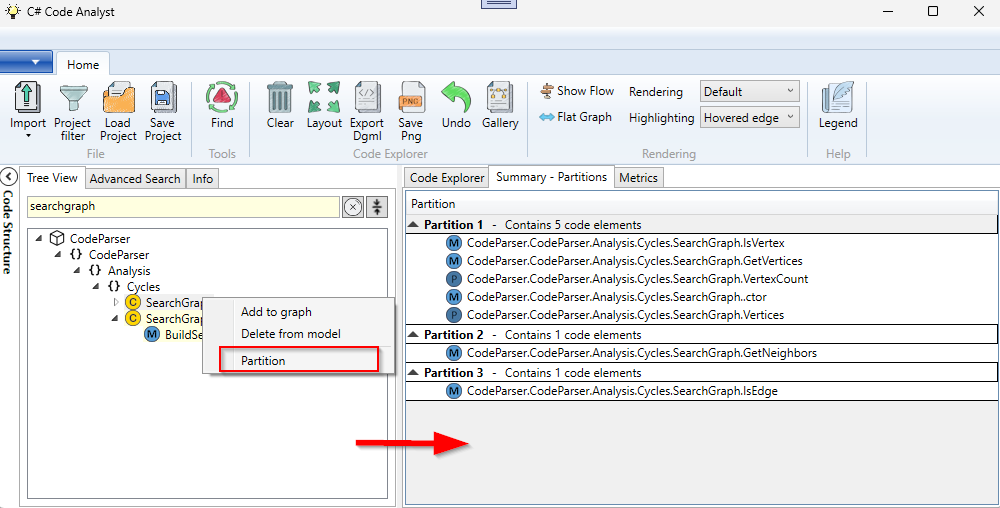
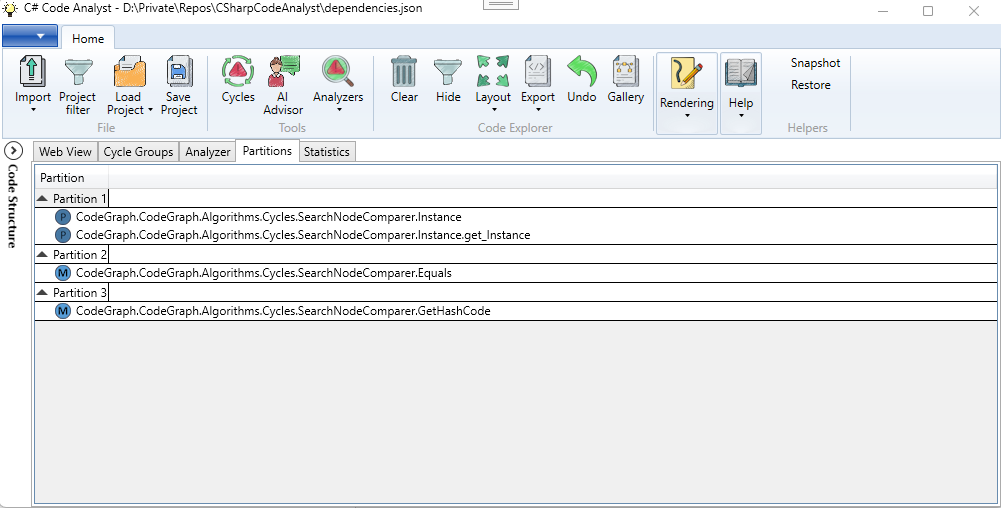
Updated documentation

Changed region(s): [[0.0, 0.0, 1.0, 1.0], [0.341, 0.8563, 0.465, 0.9154]]

diff --git a/CSharpCodeAnalyst/Resources/Strings.Designer.cs b/CSharpCodeAnalyst/Resources/Strings.Designer.cs
@@ -3090,7 +3090,7 @@ namespace CSharpCodeAnalyst.Resources {
         }
         
         /// <summary>
-        ///   Looks up a localized string similar to Web View.
+        ///   Looks up a localized string similar to Code Explorer.
         /// </summary>
         public static string WebView_TabHeader {
             get {

diff --git a/Documentation/Metrics.md b/Documentation/Metrics.md
@@ -29,24 +29,11 @@ Available via *Analyzers → Type Dependencies*. The result is a sortable table 
 | Score        | Transitive importance (PageRank), normalized so the average is 1.0. How much the rest of the codebase rests on this type.<br />transitive, weighted by importance |
 | Fan-out      | How many other types this type depends on.<br />direct (depth 1) |
 
-`Containment`, `Bundled`, `Handles` are special relationships which are not considered in this analysis. Relevant relationship types are `Calls`, `Creates`, `Uses`, `Inherits`, `Implements`, `Overrides`, `UsesAttribute`, `Invokes`.
-
 Types defined outside the analyzed solution (e.g., frameworks and NuGet packages) are excluded. Otherwise, ubiquitous types like `object` or `string` would dominate the Fan-in ranking.
 
-### The type-level graph
+One note how the dependencies are counted: If 10 methods in class `A` call 5 methods in class `B` and class `A` accesses one field in class `B` we count one type dependency`A → B.` **Dependency is a yes/no fact in this context.** For the question "must I understand B in order to understand A?", the answer does not change whether A touches B in five places or fifty. A depends on B, full stop.
 
-The parsed code graph contains fine-grained relationships: a *method* calls another *method*, a *field* has a *type*, and so on. These metrics are not computed on those raw relationships. Every relationship is first **lifted to the type that contains its endpoints**:
-
-- A call `A.DoWork()` → `B.Helper()` becomes a type edge `A → B`. 
-- Relationships above the type level (namespace, assembly) have no containing type and are ignored.
-
-This is deliberate. For understanding architecture, "does class A depend on class B?" is the useful question — not "which of A's methods calls which of B's methods".
-
-After lifting, the type edges are **deduplicated**. If class `A` calls ten different methods on class `B`, that is a single `A → B` edge.
-
-This is intentional. **Dependency is a yes/no fact in this context.** For the question "must I understand B in order to understand A?", the answer does not change whether A touches B in five places or fifty. A depends on B, full stop.
-
-Note: The one quantity that genuinely exists is the number of distinct **call sites** between two types — a measure of how *entangled* they are, relevant for estimating decoupling effort. But that is a different question from centrality, so it is not used here.
+Relevant relationship types are `Calls`, `Creates`, `Uses`, `Inherits`, `Implements`, `Overrides`, `UsesAttribute`, `Invokes`. You may have seen a `Handles` relationship in the code graph. This is ignored. It is a special relationship introduced to show which method handles an event. In terms of dependencies, this is the wrong direction. The dependency is recognized when the event is registered, however.
 
 ### Fan-in and Fan-out
 
@@ -154,7 +141,7 @@ Only **classes** are analyzed (not structs, records or interfaces). Pure data ho
 
 Methods of a class may be linked together through base-class members. 
 
-Therefore base-class members are pulled in as **connectors**: they link the class's own members that interact through inherited state or behavior, but are then **projected out** of the reported partitions — because a split concerns the members *this* class actually owns.  External base classes are ignored.
+Therefore, base-class members are pulled in as **connectors**: they link the class's own members that interact through inherited state or behavior, but are then **projected out** of the reported partitions — because a split concerns the members *this* class actually owns.  External base classes are ignored.
 
 ### Reading the numbers
 

diff --git a/Documentation/example-partition-class.md b/Documentation/example-partition-class.md
@@ -8,10 +8,24 @@ Cohesion within a class measures how closely related its code elements are to ea
 
 ## Example
 
-Find the class you want to analyze in the tree view and select **Partition** in the context menu. The function is implemented only for classes.
+To calculate the partitions of all classes run the **Type Cohesion** Analyzer from the Ribbon
+
+![](Images/cohesion-analyzer-ribbon.png)
+
+This presents all classes where partitioning is possible. From here you an double click a row or use the context menu to show the partitions.
+
+
+
+![](Images/partition-analyzer-result.png)
+
+
+
+The result is shown in the Partitions Tab. 
+
+
 
 ![](Images/example-partition.png)
 
-The result is shown in the Summary Tab. (Same tab where also cycle groups are summarized)
+
 
 You can see that this class can fall apart in three independent groups of code elements. This can give you a hint what functionality you can extract from the class.

diff --git a/README.md b/README.md
@@ -246,6 +246,16 @@ To integrate the tool into a build pipeline, you can call it without a user inte
 
 ---
 
+## Metrics
+
+C# Code Analyst can calculate a few but meaningful metrics.
+
+You can read more about the supported metrics here: [Metrics](Documentation/Metrics.md)
+
+All metrics are accessible through the Analyzer Ribbon and the results are presented in the analyzer output table.
+
+![](Documentation/Images/metrics-example.png)
+
 ## Other languages
 
 The tool is written for C#, but you can also import jdeps output for basic visualization of Java code.
@@ -262,7 +272,7 @@ Please take note of the following issues:
 - The directory structure of the source code is completely ignored, so keep this in mind when searching for cycles.
 - Source locations are not extracted for all dependencies; only those that are easily extractable are included.
 - You can include external code by setting the "Include External Code" option. Only type dependencies are collected.
-- Only types used in a lambda expression are extracted. Method calls inside lambdas are not covered. I know that the method that creates the lambda "uses" the found types. But I cannot track where the lambda is actually called. I think that is a good compromise.
+- A method defining a  lambda expression only has "uses" relationships to types and methods inside the lambda.  This is because I cannot track where the lambda is actually called. I think that is a good compromise.
 
 ## Thank you
 